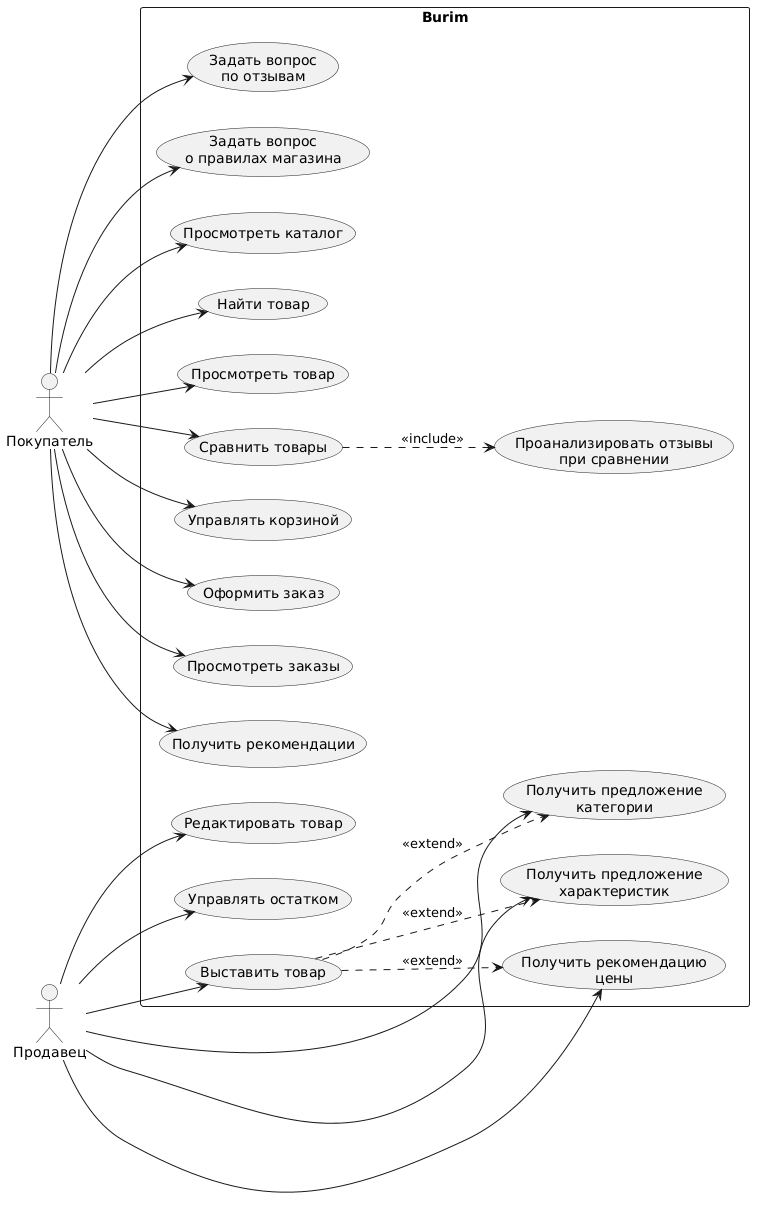
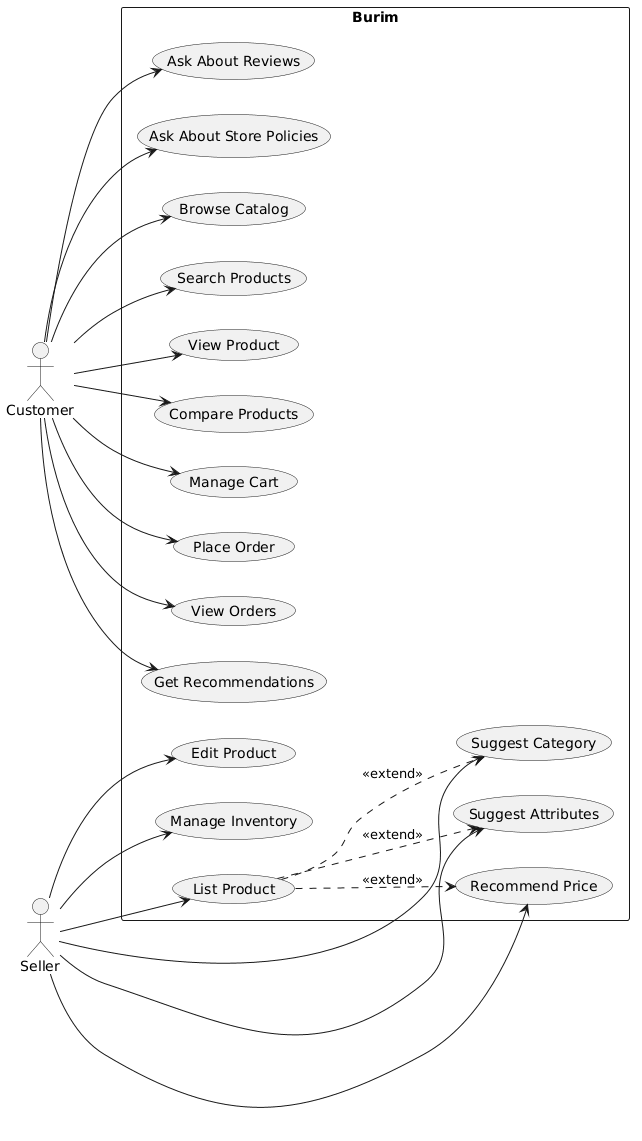
docs: translate use case diagram to English

diff --git a/README.md b/README.md
@@ -1,3 +1,10 @@
+## Use Case Diagram
+
+Burim supports two main user roles: customers and sellers. The diagram shows their core interactions with the platform and the available AI-assisted features.
+
+![Burim usecase diagram](docs/architecture/usecase.png)
+
+
 ## Tech Stack
 
 ### Backend
